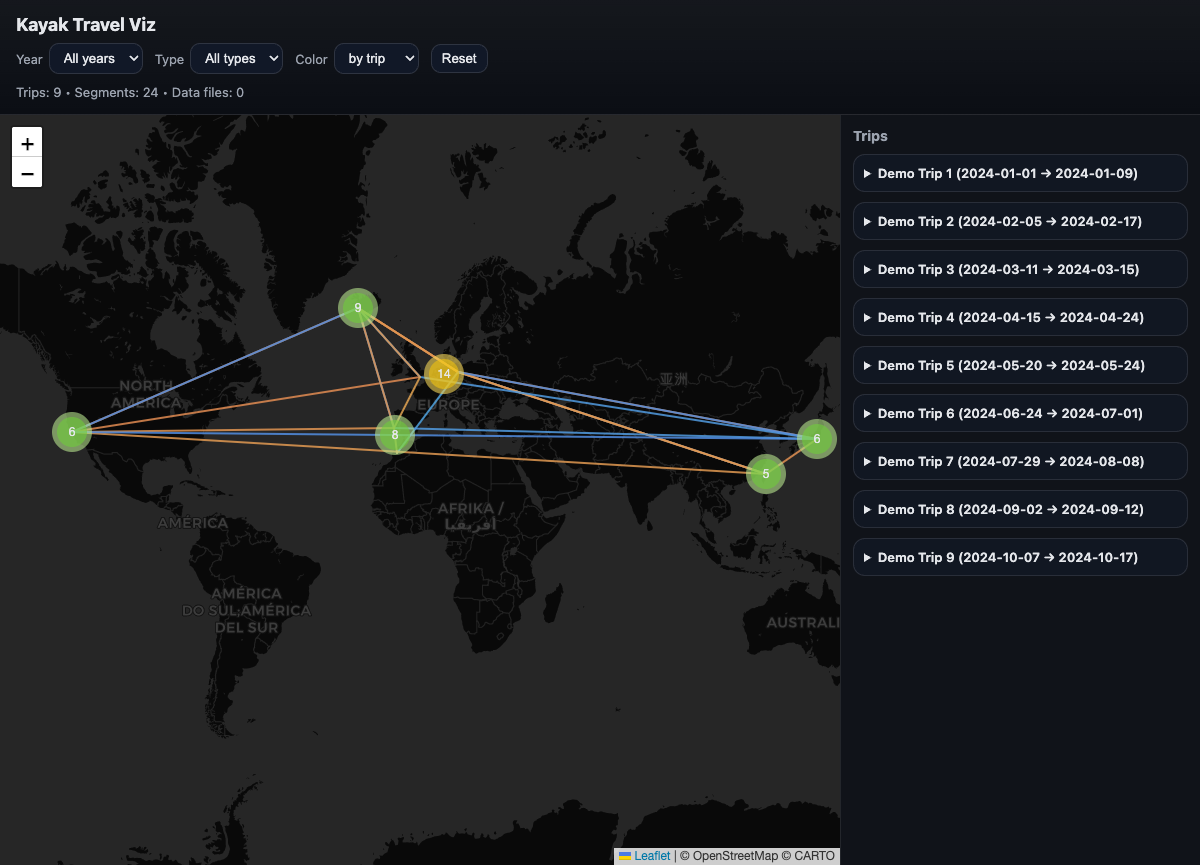
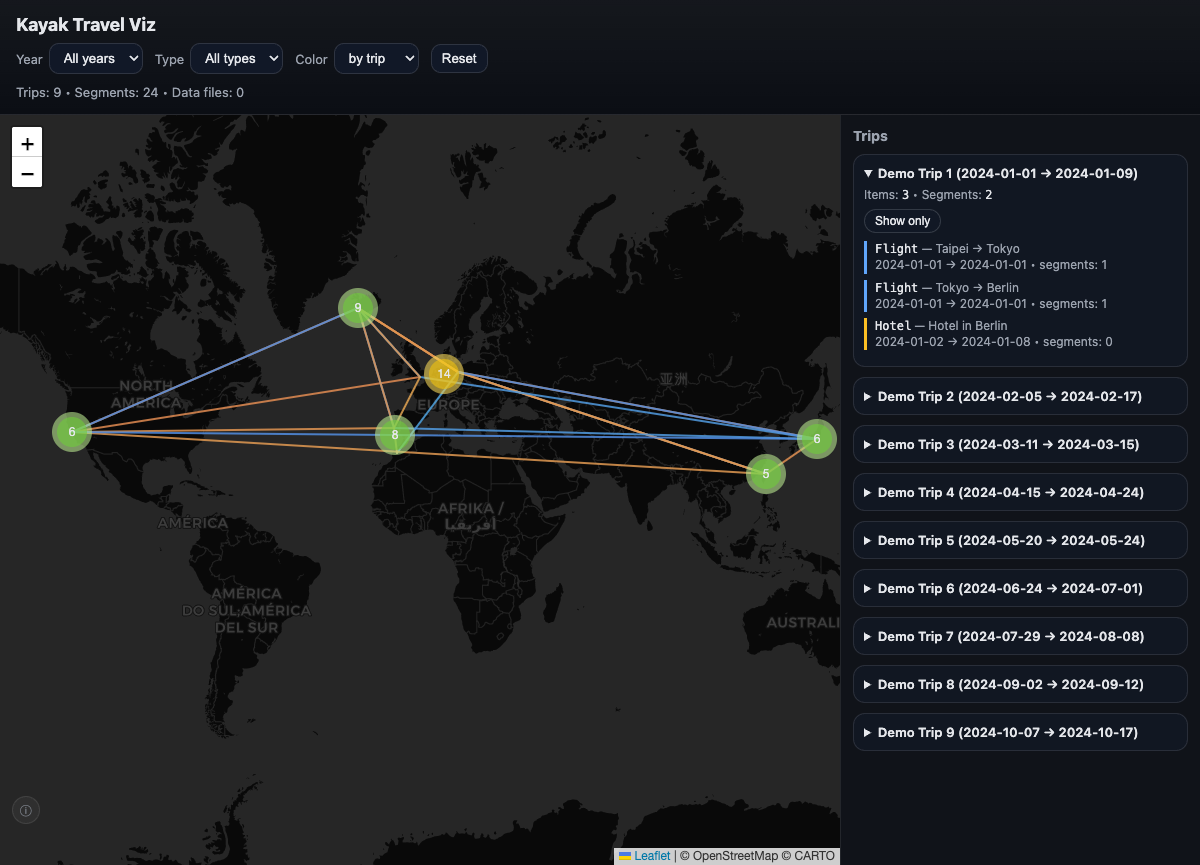
UI: expandable flight segments + trip-only toggle; update demo screenshot

Changed region(s): [[0.7092, 0.2185, 0.9558, 0.6867], [0.7092, 0.7803, 0.9558, 0.874], [0.7092, 0.7179, 0.9558, 0.7491]]

diff --git a/docs/assets/app.js b/docs/assets/app.js
@@ -56,16 +56,18 @@ function featurePassesFilters(f, filters) {
   const p = f.properties || {};
   if (filters.year && String(p.year) !== String(filters.year)) return false;
   if (filters.type && String(p.type) !== String(filters.type)) return false;
+  if (filters.tripGroupKey && String(p.tripGroupKey) !== String(filters.tripGroupKey)) return false;
   return true;
 }
 
-function buildTripGroupCard(g) {
+function buildTripGroupCard(g, segmentsByTripKey, { onShowOnlyTrip, isSelectedTrip, openByDefault } = {}) {
   // g = {tripName, start, end, events:[...]}
   const wrap = document.createElement('div');
   wrap.className = 'trip';
 
   const details = document.createElement('details');
-  details.open = false;
+  details.dataset.tripgroupkey = String(g.tripGroupKey || '');
+  details.open = !!openByDefault;
 
   const summary = document.createElement('summary');
   summary.className = 'title';
@@ -76,19 +78,77 @@ function buildTripGroupCard(g) {
   const segs = (g.events || []).reduce((acc, e) => acc + (e.segmentCount || 0), 0);
   meta.innerHTML = `Items: <code>${(g.events||[]).length}</code> • Segments: <code>${segs}</code>`;
 
+  // Actions (show only this trip)
+  const actions = document.createElement('div');
+  actions.className = 'meta';
+  actions.style.marginTop = '6px';
+  actions.style.display = 'flex';
+  actions.style.gap = '8px';
+  actions.style.alignItems = 'center';
+
+  const btn = document.createElement('button');
+  btn.type = 'button';
+  btn.textContent = isSelectedTrip ? 'Show all' : 'Show only';
+  btn.style.cursor = 'pointer';
+  btn.style.border = '1px solid rgba(255,255,255,.14)';
+  btn.style.borderRadius = '999px';
+  btn.style.padding = '4px 10px';
+  btn.style.background = isSelectedTrip ? 'rgba(96,165,250,.18)' : 'rgba(17,24,39,.7)';
+  btn.style.color = 'var(--text)';
+  btn.style.fontSize = '12px';
+
+  btn.addEventListener('click', (ev) => {
+    ev.preventDefault();
+    ev.stopPropagation();
+    if (onShowOnlyTrip) onShowOnlyTrip(g);
+  });
+
+  actions.appendChild(btn);
+
   const list = document.createElement('div');
   list.className = 'meta';
   list.style.marginTop = '8px';
-  list.innerHTML = (g.events || []).map(e => {
+
+  const rows = (g.events || []).map(e => {
     const t = e.type || 'Other';
+    const tripKey = e.tripKey;
+    const segs = (tripKey && segmentsByTripKey && segmentsByTripKey[tripKey]) ? segmentsByTripKey[tripKey] : [];
+
+    const hasSub = (segs && segs.length > 1);
+    const title = e.title || '';
+
+    if (!hasSub) {
+      return `<div style="margin:6px 0; padding-left:8px; border-left:3px solid ${colorForType(t)}">
+        <div><code>${t}</code> — ${title}</div>
+        <div style="color: var(--muted)"> ${fmtDate(e.start)} → ${fmtDate(e.end)} • segments: ${e.segmentCount || 0}</div>
+      </div>`;
+    }
+
+    // Expandable sub-group for multi-segment items (most useful for flights)
+    const segLines = segs.map(s => {
+      const dep = fmtDate(s.departure);
+      const arr = fmtDate(s.arrival);
+      return `<div style="margin:4px 0; padding-left:10px; border-left:2px solid rgba(255,255,255,.12)">
+        <div>${s.fromLabel} → ${s.toLabel}</div>
+        <div style="color: var(--muted); font-size: 12px">${dep}${arr ? ` → ${arr}` : ''}</div>
+      </div>`;
+    }).join('');
+
     return `<div style="margin:6px 0; padding-left:8px; border-left:3px solid ${colorForType(t)}">
-      <div><code>${t}</code> — ${e.title || ''}</div>
+      <div><code>${t}</code> — ${title}</div>
       <div style="color: var(--muted)"> ${fmtDate(e.start)} → ${fmtDate(e.end)} • segments: ${e.segmentCount || 0}</div>
+      <details style="margin-top:6px;">
+        <summary style="cursor:pointer; color: var(--muted);">Show segments</summary>
+        <div style="margin-top:6px;">${segLines}</div>
+      </details>
     </div>`;
-  }).join('');
+  });
+
+  list.innerHTML = rows.join('');
 
   details.appendChild(summary);
   details.appendChild(meta);
+  details.appendChild(actions);
   details.appendChild(list);
   wrap.appendChild(details);
   return wrap;
@@ -111,10 +171,37 @@ function buildTripGroupCard(g) {
   const statsEl = document.getElementById('stats');
   const tripList = document.getElementById('tripList');
 
+  // Single-select “show only this trip” filter
+  let selectedTripGroupKey = '';
+  // Preserve which trip groups are expanded across renders
+  let openTripGroupKeys = new Set();
+
   const allYears = uniq(geo.features.map(f => f.properties && f.properties.year)).sort((a,b)=>a-b);
   const allTypes = uniq(geo.features.map(f => f.properties && f.properties.type)).sort();
   makeSelect(yearSelect, allYears, {labelAll:'All years'});
   makeSelect(typeSelect, allTypes, {labelAll:'All types'});
+
+  // Build an index: tripKey -> ordered list of line segments
+  const segmentsByTripKey = {};
+  for (const f of geo.features) {
+    if (!f || !f.geometry || f.geometry.type !== 'LineString') continue;
+    const p = f.properties || {};
+    const k = p.tripKey;
+    if (!k) continue;
+    if (!segmentsByTripKey[k]) segmentsByTripKey[k] = [];
+    segmentsByTripKey[k].push({
+      fromLabel: p.fromLabel,
+      toLabel: p.toLabel,
+      departure: p.departure,
+      arrival: p.arrival,
+      type: p.type,
+      year: p.year,
+      tripGroupKey: p.tripGroupKey
+    });
+  }
+  for (const k of Object.keys(segmentsByTripKey)) {
+    segmentsByTripKey[k].sort((a,b) => String(a.departure||'').localeCompare(String(b.departure||'')));
+  }
 
   const markers = L.markerClusterGroup({ maxClusterRadius: 40 });
   const linesLayer = L.layerGroup();
@@ -122,7 +209,17 @@ function buildTripGroupCard(g) {
   map.addLayer(markers);
 
   function render() {
-    const filters = { year: yearSelect.value, type: typeSelect.value };
+    const filters = { year: yearSelect.value, type: typeSelect.value, tripGroupKey: selectedTripGroupKey };
+
+    // Remember expanded trip groups before we nuke the DOM
+    try {
+      openTripGroupKeys = new Set(
+        Array.from(tripList.querySelectorAll('details[data-tripgroupkey]'))
+          .filter(d => d.open)
+          .map(d => d.dataset.tripgroupkey)
+          .filter(Boolean)
+      );
+    } catch {}
 
     linesLayer.clearLayers();
     markers.clearLayers();
@@ -174,15 +271,30 @@ function buildTripGroupCard(g) {
       .filter(g => (g.events || []).length > 0)
       .sort((a,b) => (a.start||'').localeCompare(b.start||''));
 
-    for (const g of tripGroups) tripList.appendChild(buildTripGroupCard(g));
+    for (const g of tripGroups) {
+      const isSelected = (selectedTripGroupKey && String(selectedTripGroupKey) === String(g.tripGroupKey));
+      const openByDefault = isSelected || openTripGroupKeys.has(String(g.tripGroupKey || ''));
+      tripList.appendChild(buildTripGroupCard(g, segmentsByTripKey, {
+        isSelectedTrip: isSelected,
+        openByDefault,
+        onShowOnlyTrip: (gg) => {
+          const k = String(gg.tripGroupKey || '');
+          selectedTripGroupKey = (String(selectedTripGroupKey) === k) ? '' : k;
+          // Keep this group open after toggling
+          if (k) openTripGroupKeys.add(k);
+          render();
+        }
+      }));
+    }
 
-    statsEl.textContent = `Trips: ${tripGroups.length} • Segments: ${visibleSegments} • Data files: ${summary.sourceFiles}`;
+    const tripNote = selectedTripGroupKey ? ' • Filter: 1 trip' : '';
+    statsEl.textContent = `Trips: ${tripGroups.length} • Segments: ${visibleSegments} • Data files: ${summary.sourceFiles}${tripNote}`;
   }
 
   yearSelect.addEventListener('change', render);
   typeSelect.addEventListener('change', render);
   if (colorSelect) colorSelect.addEventListener('change', render);
-  resetBtn.addEventListener('click', () => { yearSelect.value=''; typeSelect.value=''; if (colorSelect) colorSelect.value='type'; render(); });
+  resetBtn.addEventListener('click', () => { yearSelect.value=''; typeSelect.value=''; selectedTripGroupKey=''; if (colorSelect) colorSelect.value='type'; render(); });
 
   render();
 })();
